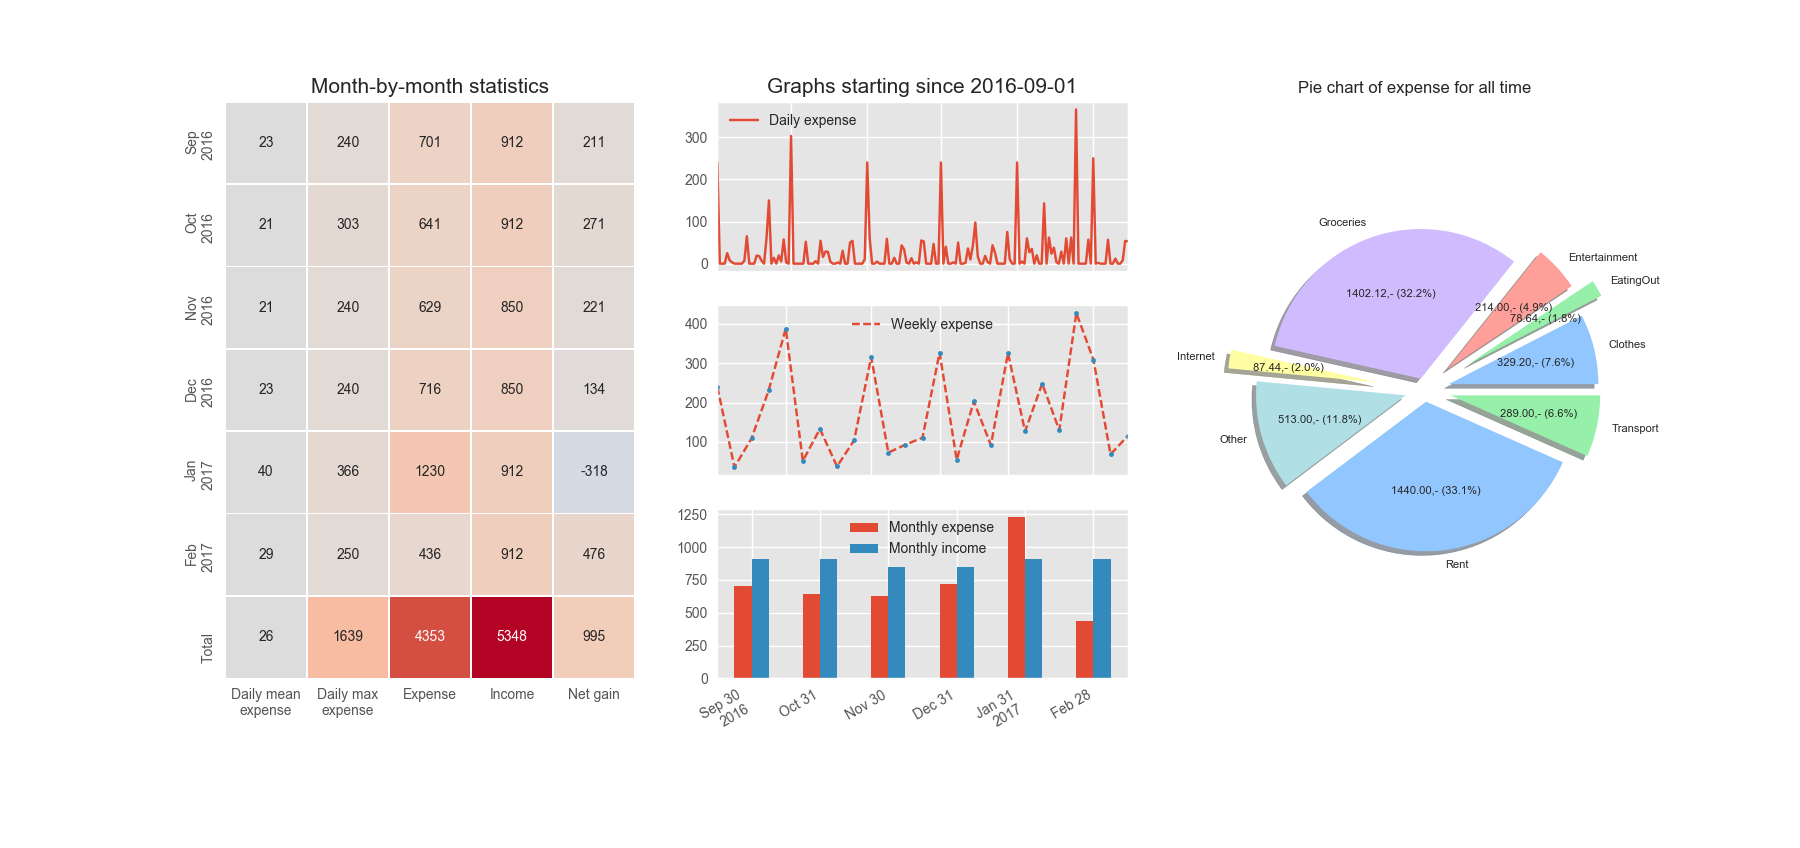
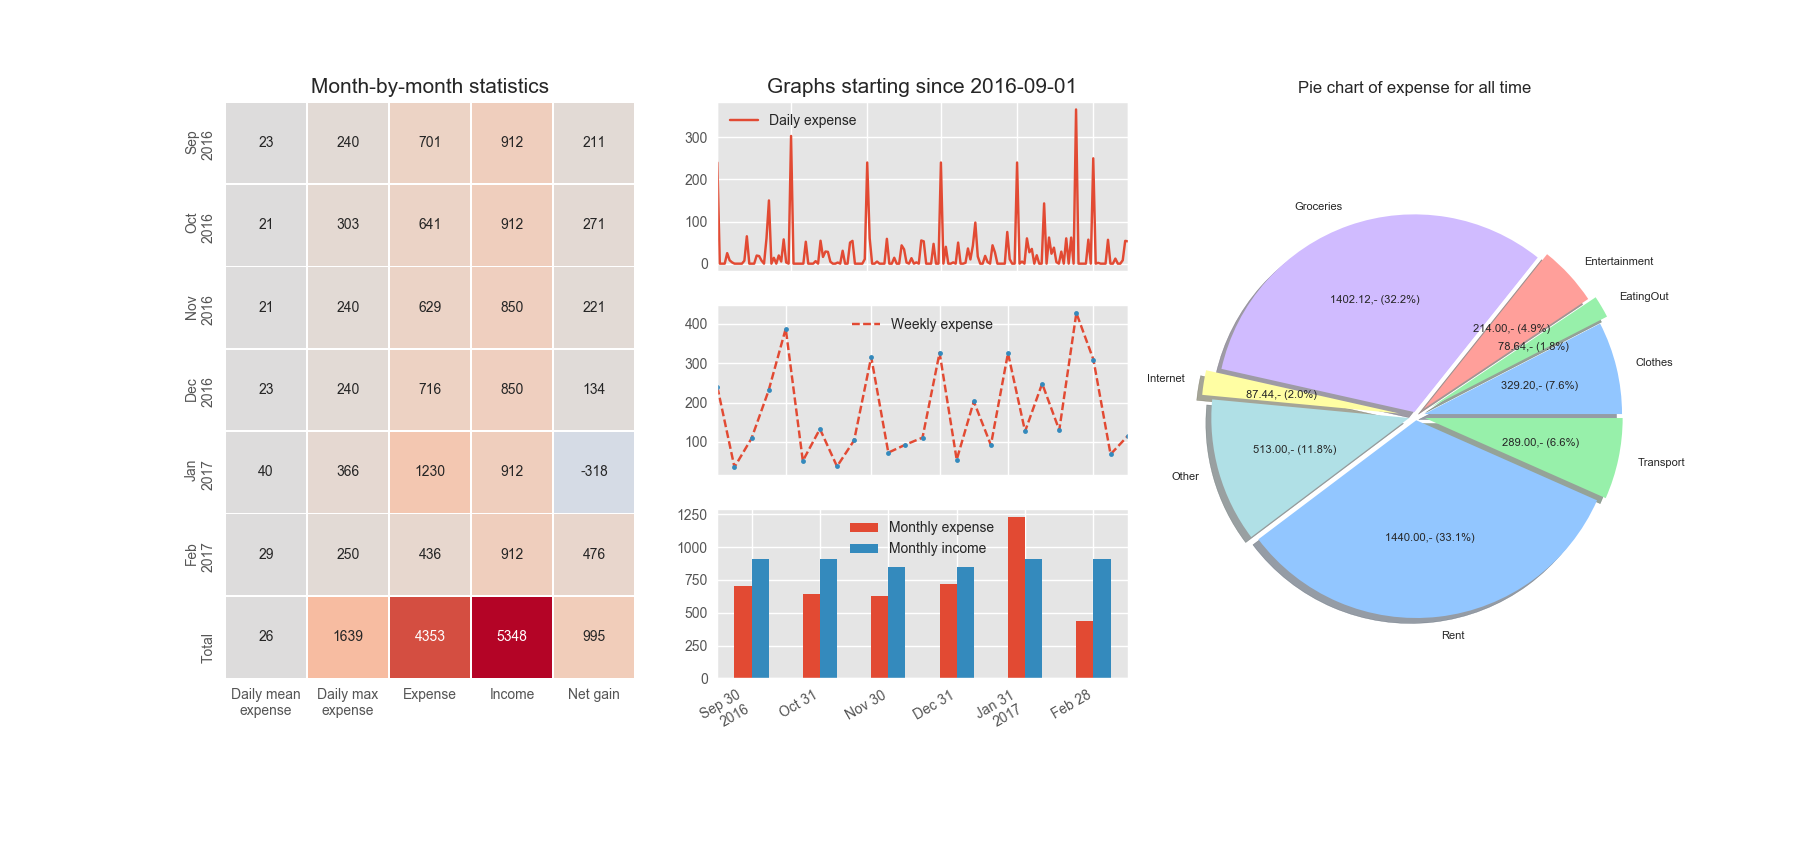
Updated example_alltime_viz.png and README.md

Changed region(s): [[0.6533, 0.2453, 0.9333, 0.7358], [0.7778, 0.5519, 0.8089, 0.5825]]

diff --git a/README.md b/README.md
@@ -18,7 +18,10 @@ Although these can be installed sperately, the often recommended approach is to 
 
 ## Example data
 In the repository there is an example data set. Feel free to use this if you want see how it might look after some months of expense/income tracking. Below is example images that shows the two types of visualizations the program offers.
-![GitHub Logo](example_alltime_viz.png)
+![Visualization of data for all time](example_alltime_viz.png)
+This image shows a visualization of all expense/income, data in the example set, since the very beginning of expense/income tracking.
+![Visualization of data for one month](example_month_viz.png)
+This second image shows a visualization of data for one single month (in this case January 2017). All values in both the figures are in US dollars, but you can choose wich ever currency you want when submitting expense/income.
 
 ## What happens behind the scene?
 When you run add_expense.py and add_income.py for the first time, new directories 'expense' and 'income' are generated. In addition, directories for the relevant year and a new textfile for the month of the input data, are generated. When you add an expense/income in the e.g. same month as before, the scripts appends to the already existing textfile.
